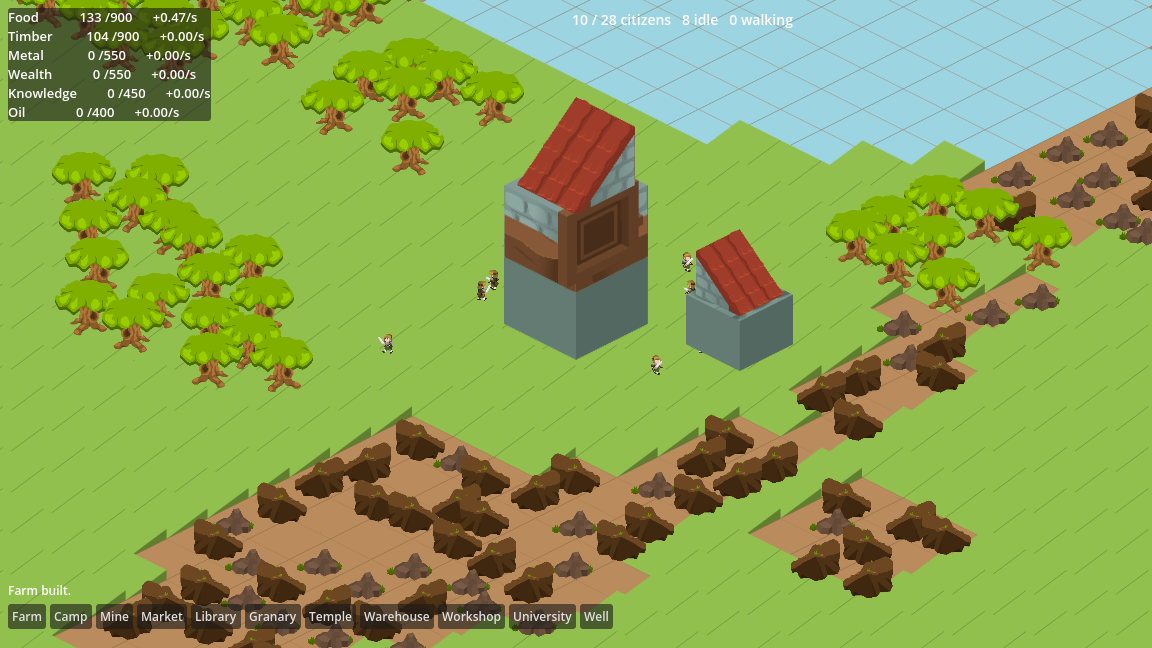
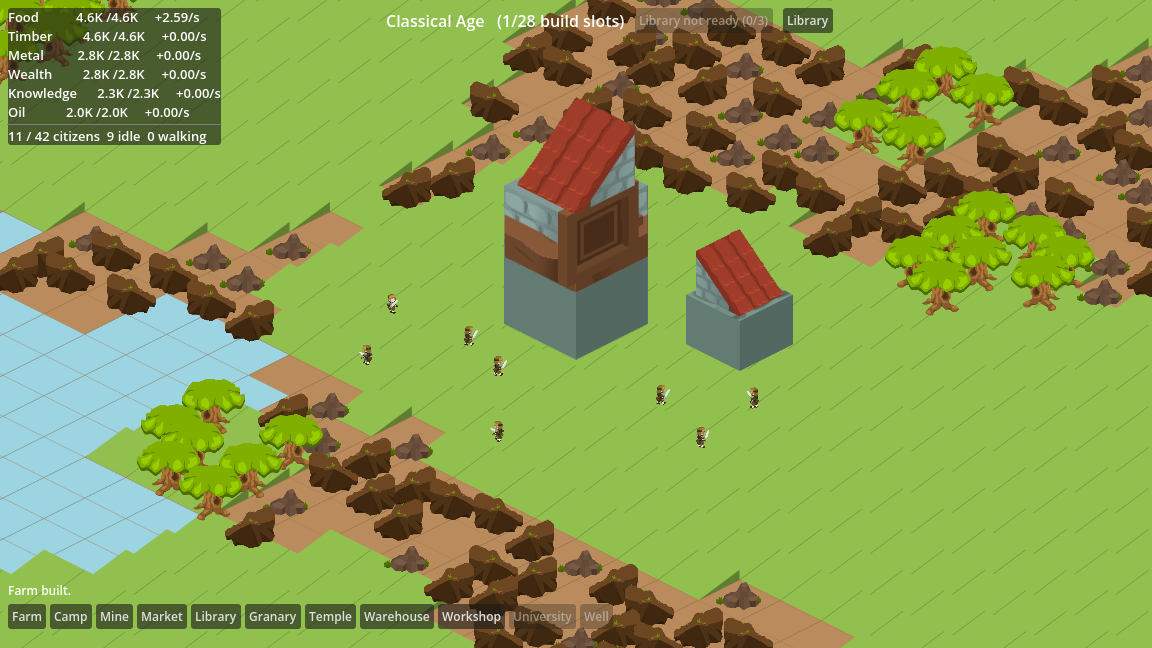
Wire the library and the ages into the playable scene
There is an arc now rather than a sandbox. Four tracks, one level per age, and
leaving an age needs three of the four at the level that matches it, which is
what stops a player rushing a single track and skipping the tree. Advancing
multiplies output and storage by 3.2, the step that meets age prices climbing
roughly six-fold a rung. The build bar greys out what is locked or unaffordable
and says why in the tooltip.

verify.gd checks the gate rather than assuming it: advancing with no research
is refused, then four tracks are taken to level one, the age turns, and food
gross moves 0.915 -> 2.927, which is x3.20 against an expected x3.2. A building
gated to the new age becomes buildable at the same moment.

Also moves the population readout in with the resources. Top-centre and
top-right were colliding, because the advance button's label grows to explain
why it is disabled and pushed straight into the readout.

Two things worth recording, both in the harness rather than the game. The
viewport texture lags the state by a frame or two, so a screenshot taken
immediately after a change shows the HUD as it was before it, which briefly
looked like the age advance had not applied. And a Python replace that does not
match fails silently, so the edit that moved the population label appeared to
succeed while changing nothing; the range-based edit that followed asserts.

diff --git a/godot/README.md b/godot/README.md
@@ -157,11 +157,32 @@ The ground layer is deliberately *not* y-sorted: it is always behind
 everything, and sorting three thousand static tiles every frame would cost real
 time and buy nothing.
 
+### Progression
+
+The library and the ages are wired in, so there is an arc rather than a
+sandbox. Four tracks, one level per age; leaving an age needs three of the four
+standing at the level that matches it, which is what stops a player rushing one
+track and skipping the tree. Advancing multiplies every building's output and
+every store by 3.2, and that step is what meets age prices climbing roughly
+six-fold a rung.
+
+`verify.gd` checks this rather than assuming it:
+
+    age gate   tracks_ready=false at age 0
+               advancing with no research: false (expected false)
+    research   4 tracks taken to level 1
+    advance    Ancient Age -> Classical Age (true)
+    output     food gross 0.915 -> 2.927  = x3.20 (expected x3.2)
+    unlocks    warehouse now buildable: true
+
+The gate refuses first, then the multiplier lands exactly on 3.2, and a
+building gated to the new age becomes available. The build bar greys out what
+is locked or unaffordable and says why in the tooltip.
+
 ### Not there yet
 
-No save or load, no library, wonders or trade, no ages beyond the first, and no
-menu. Those are all in the TypeScript build and none of them are hard; this
-spike was about proving the loop, and the loop runs.
+No save or load, no wonders or trade routes, and no menu. All exist in the
+TypeScript build and none are hard.
 
 ## Running it
 
